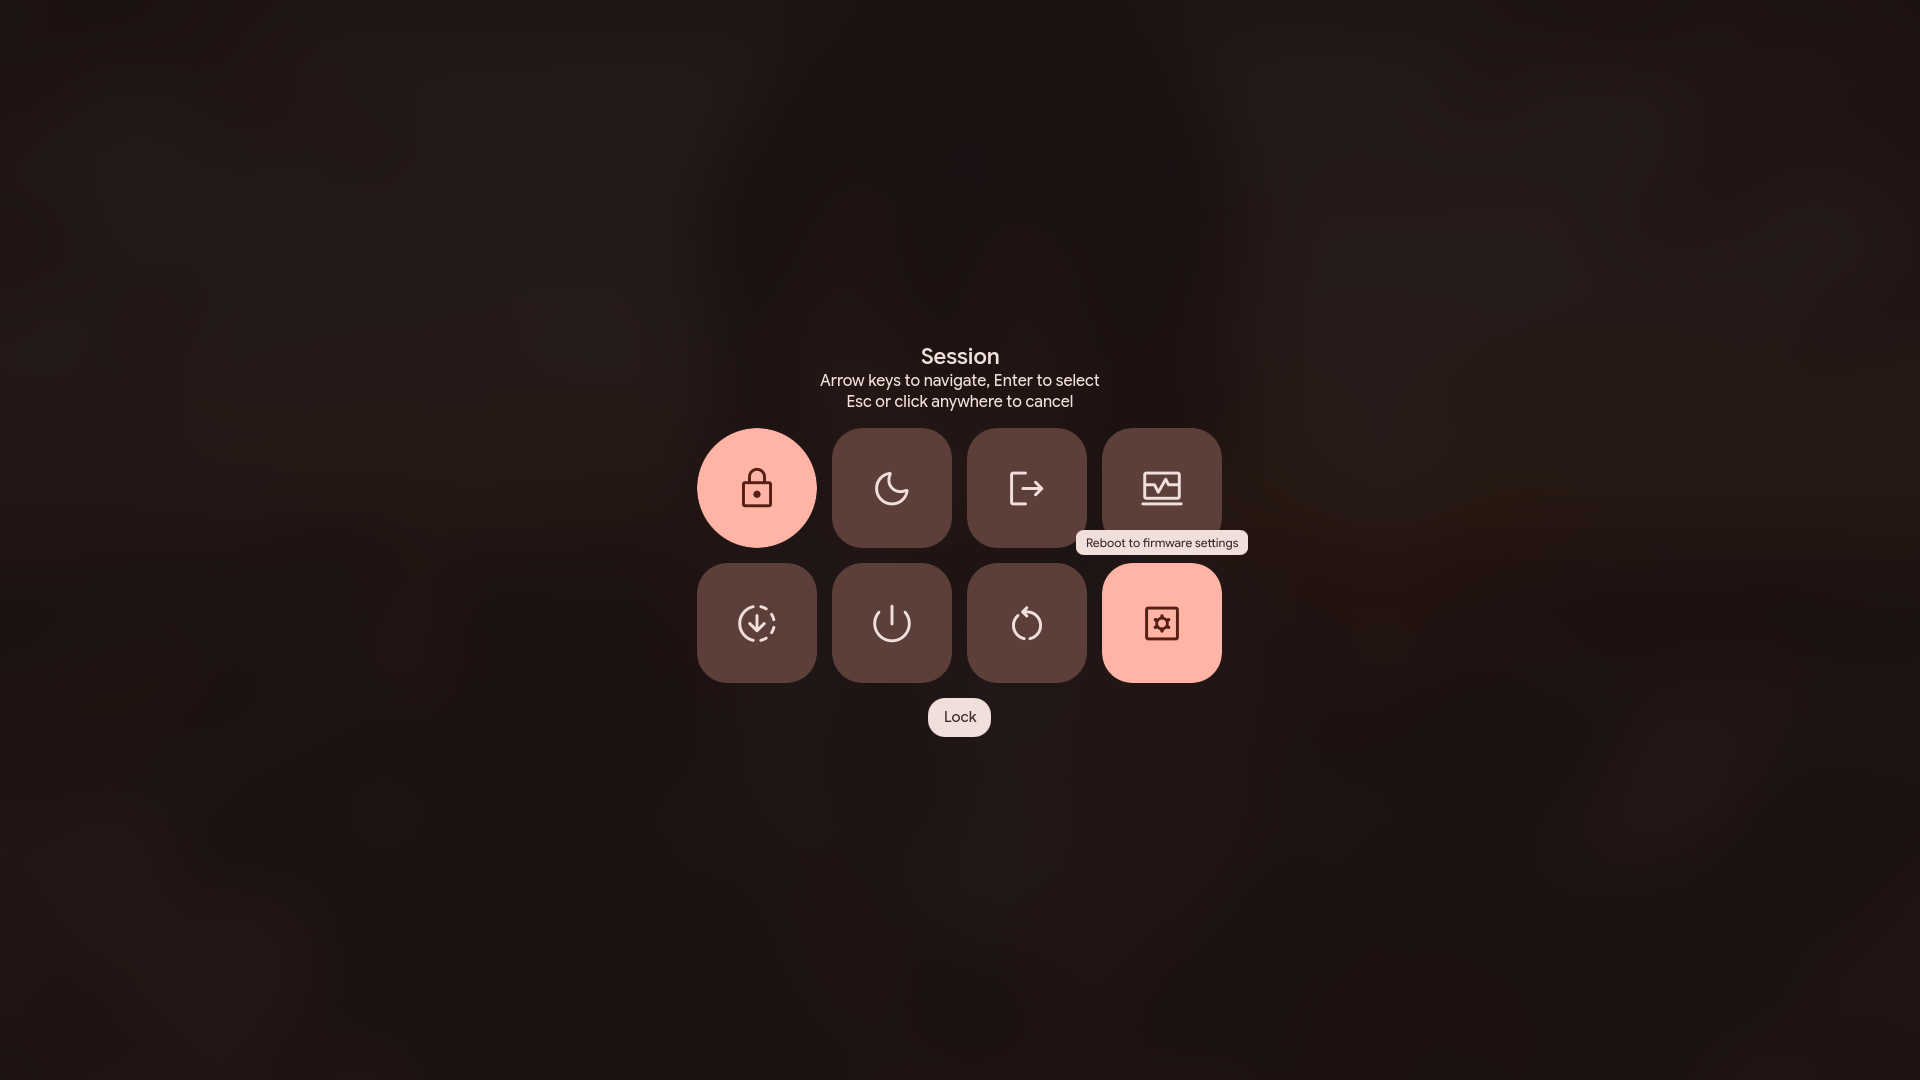
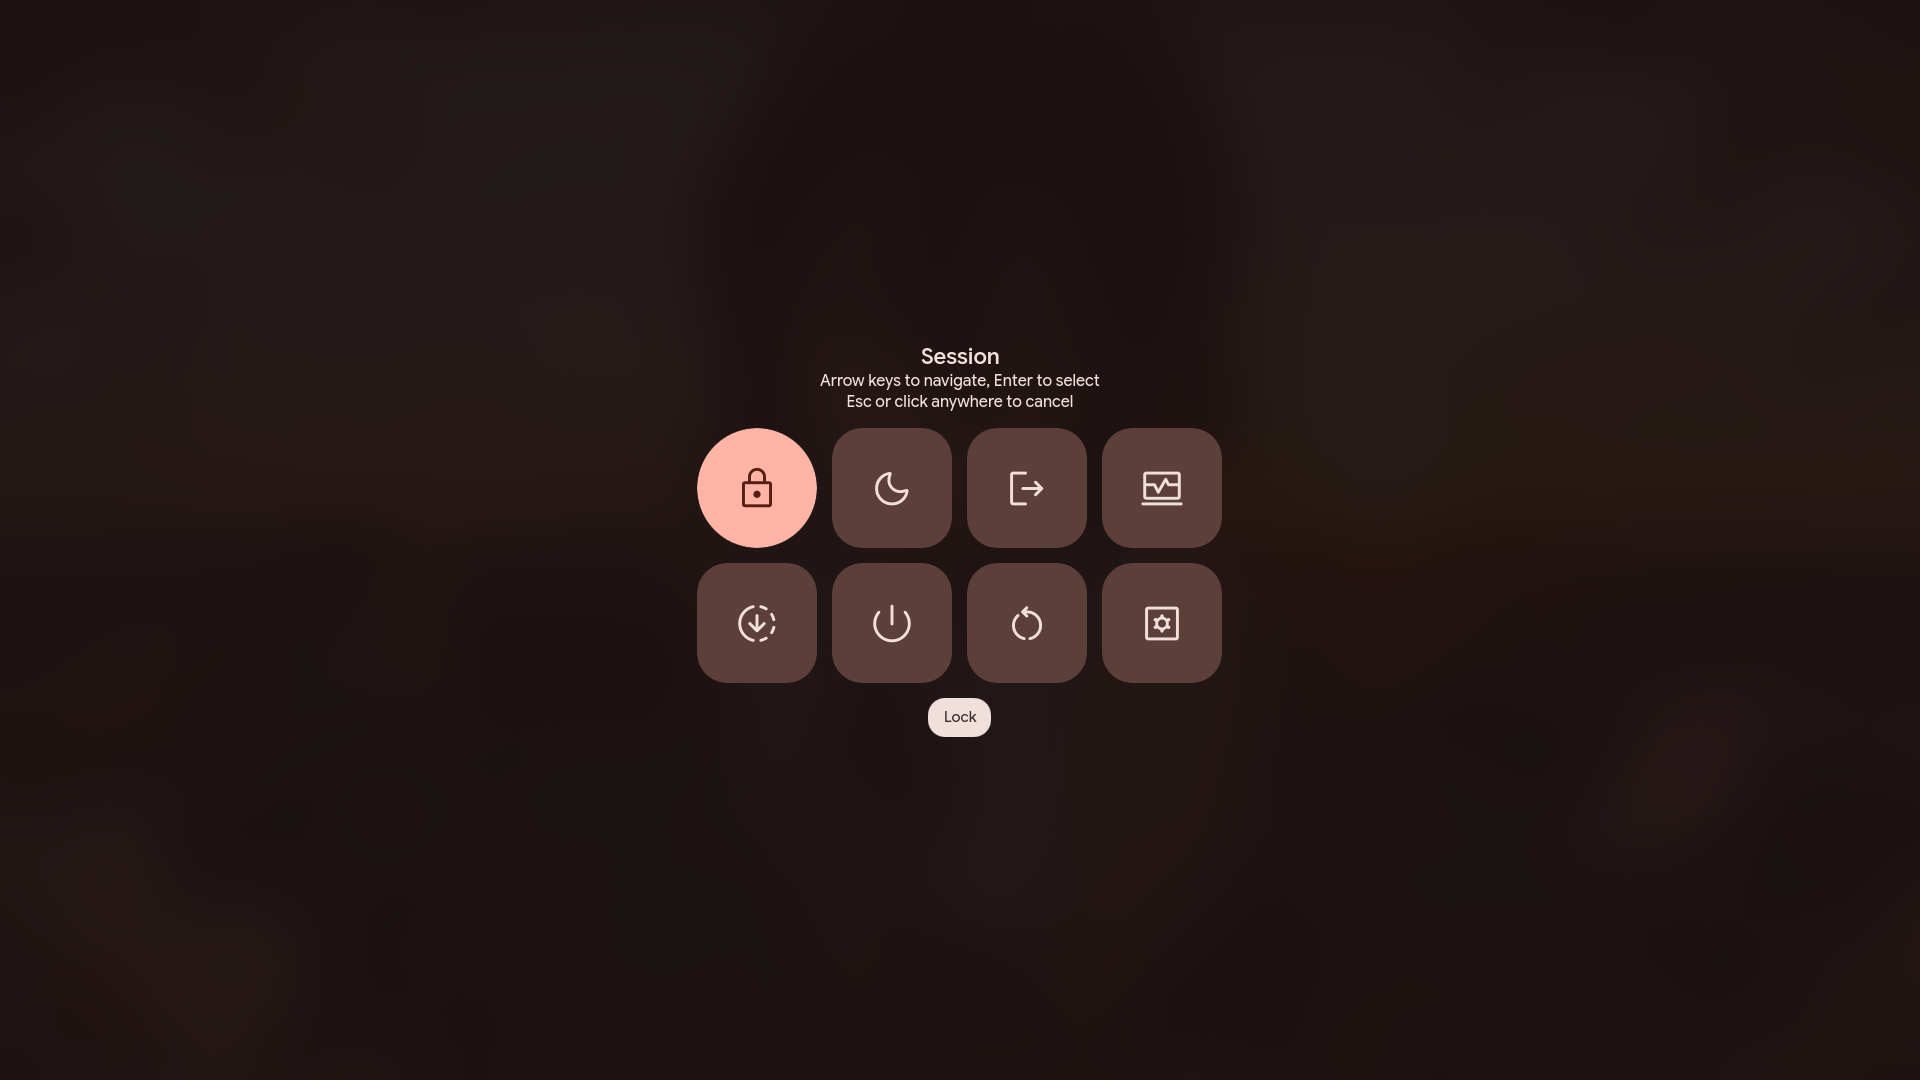
docs(screenshots): update showcase images with right sidebar quick toggles and app launcher

Changed region(s): [[0.5625, 0.4889, 0.6562, 0.6417]]

diff --git a/README.md b/README.md
@@ -29,11 +29,11 @@ A reproducible, fully-integrated Wayland desktop environment built on Arch Linux
 | <img width="1920" height="1080" alt="Clean Desktop & Bar" src="assets/screenshots/desktop.png" /> | <img width="1920" height="1080" alt="Window Management & Monitoring" src="assets/screenshots/window_management.png" /> |
 
 <details>
-  <summary>More Screenshots (Session Menu)</summary>
+  <summary>More Screenshots (App Launcher & Session Menu)</summary>
 
-  | Session Menu & Power Controls |
-  | :---: |
-  | <img width="1920" height="1080" alt="Session Menu & Power Controls" src="assets/screenshots/session.png" /> |
+  | Quickshell App Launcher | Session Menu & Power Controls |
+  | :---: | :---: |
+  | <img width="1920" height="1080" alt="Quickshell Application Launcher" src="assets/screenshots/launcher.png" /> | <img width="1920" height="1080" alt="Session Menu & Power Controls" src="assets/screenshots/session.png" /> |
 
 </details>
 

diff --git a/MANIFEST.md b/MANIFEST.md
@@ -26,6 +26,7 @@ Total tracked dotfiles items: **1425**
 | `assets/hypr-pip/extension/popup.js` | `DOTFILES/assets/hypr-pip/extension/popup.js` | Config / Data | Yes |
 | `assets/screenshots/desktop.png` | `DOTFILES/assets/screenshots/desktop.png` | Asset / Media | Yes |
 | `assets/screenshots/fastfetch.png` | `DOTFILES/assets/screenshots/fastfetch.png` | Asset / Media | Yes |
+| `assets/screenshots/launcher.png` | `DOTFILES/assets/screenshots/launcher.png` | Asset / Media | Yes |
 | `assets/screenshots/session.png` | `DOTFILES/assets/screenshots/session.png` | Asset / Media | Yes |
 | `assets/screenshots/sidebar.png` | `DOTFILES/assets/screenshots/sidebar.png` | Asset / Media | Yes |
 | `assets/screenshots/window_management.png` | `DOTFILES/assets/screenshots/window_management.png` | Asset / Media | Yes |
